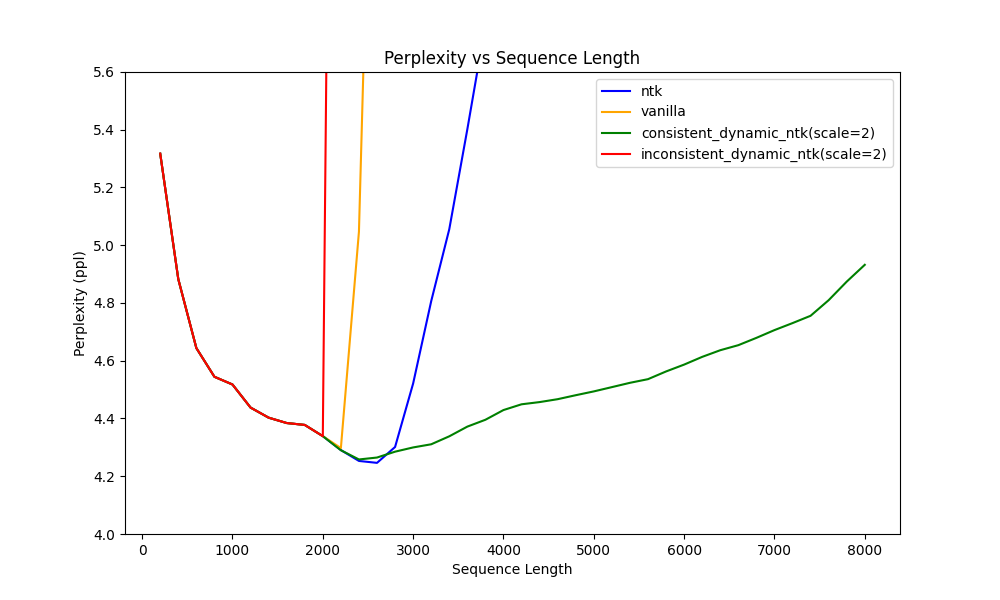
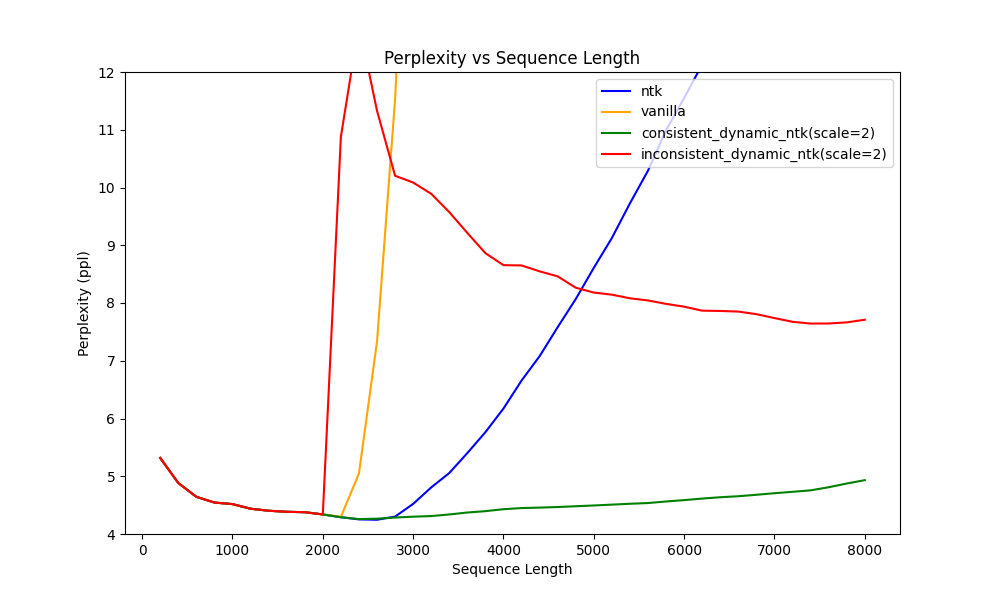
update readme

diff --git a/README.md b/README.md
@@ -53,8 +53,8 @@ The inconsistent_ntk patch changes the rotary computation on Key and Query as be
 ![ppl test](doc/inconsistent.png)
 
 
-Interestingly, as shown in the figure 1, when enabling the patch, the perplexity value of inconsistent Dynamic NTKScale RoPE significantly increases. However, as the sequence length continues to grow, we can find in Table 1 that the perplexity value gradually decreases. Notably, the inconsistent Dynamic NTKScale RoPE outperforms the NTKScale RoPE in perplexity when the sequence length exceeds 5,000.
-
+We can see from Figure1 that when keeping the rotation base between keys inconsistent w.r.t context length, the perplexity significantly increases, indicating DynamicNTK harms the performances. This finding might initially seem counterintuitive.  
+However, as the sequence length continues to grow, we can notice a gradual reduction in perplexity for inconsistent Dynamic NTKScale RoPE .  Interestingly, the inconsistent Dynamic NTKScale RoPE outperforms the NTKScale RoPE in terms of perplexity when the sequence length exceeds 5,000. 
 ![ppl test](doc/ppl.png)
 
 
